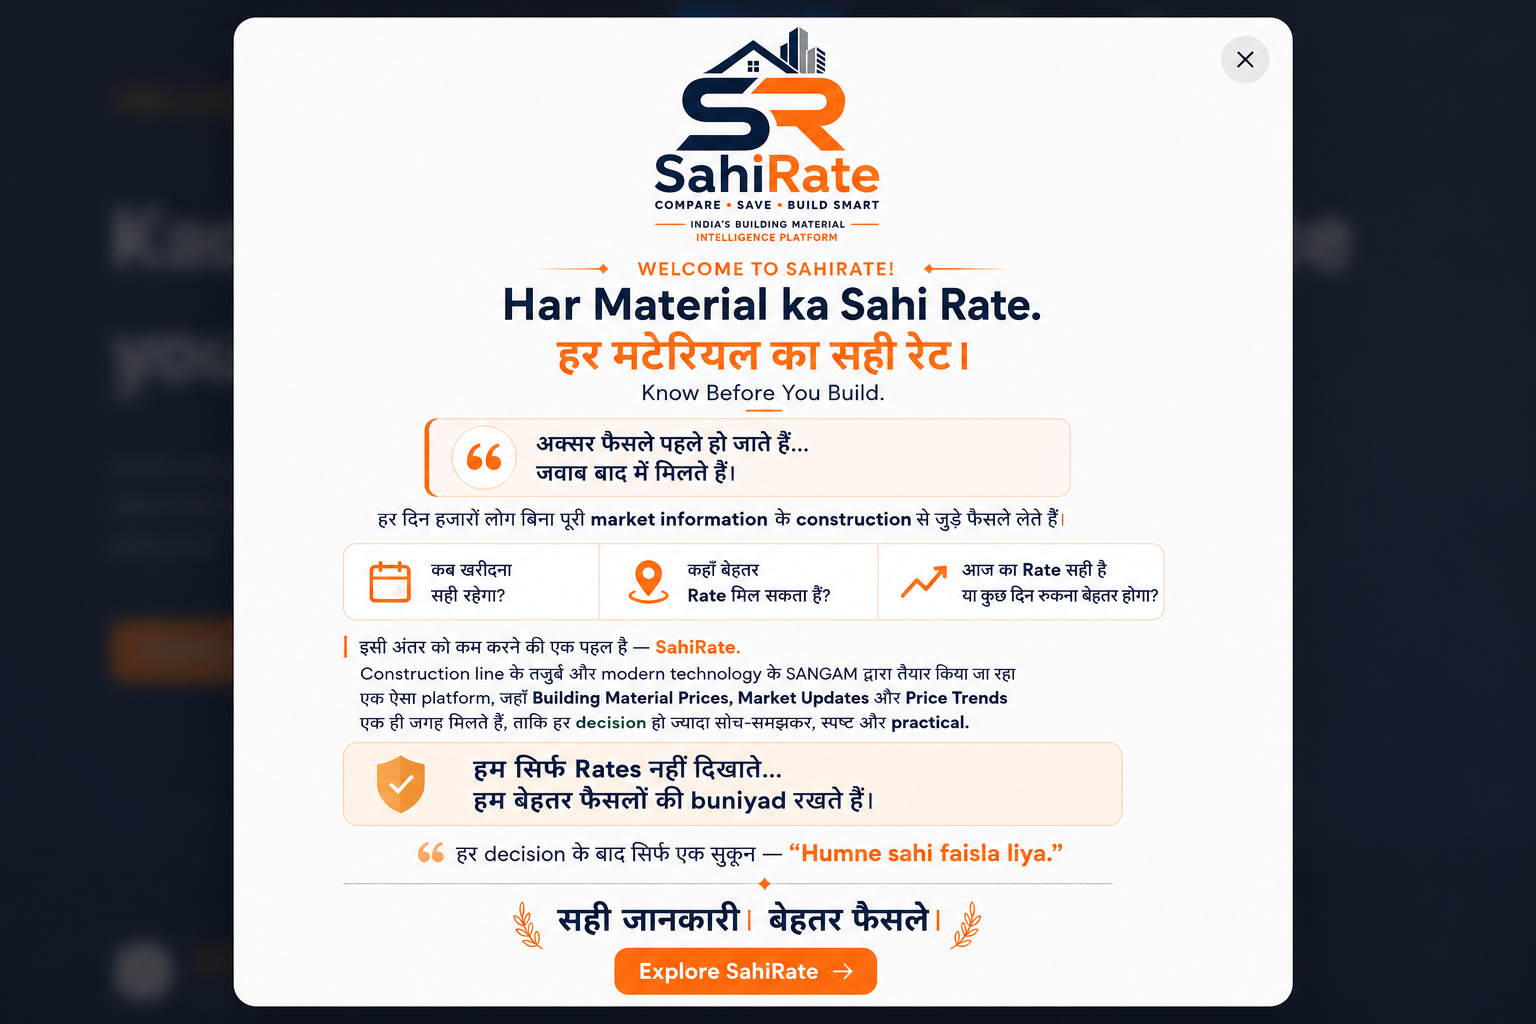
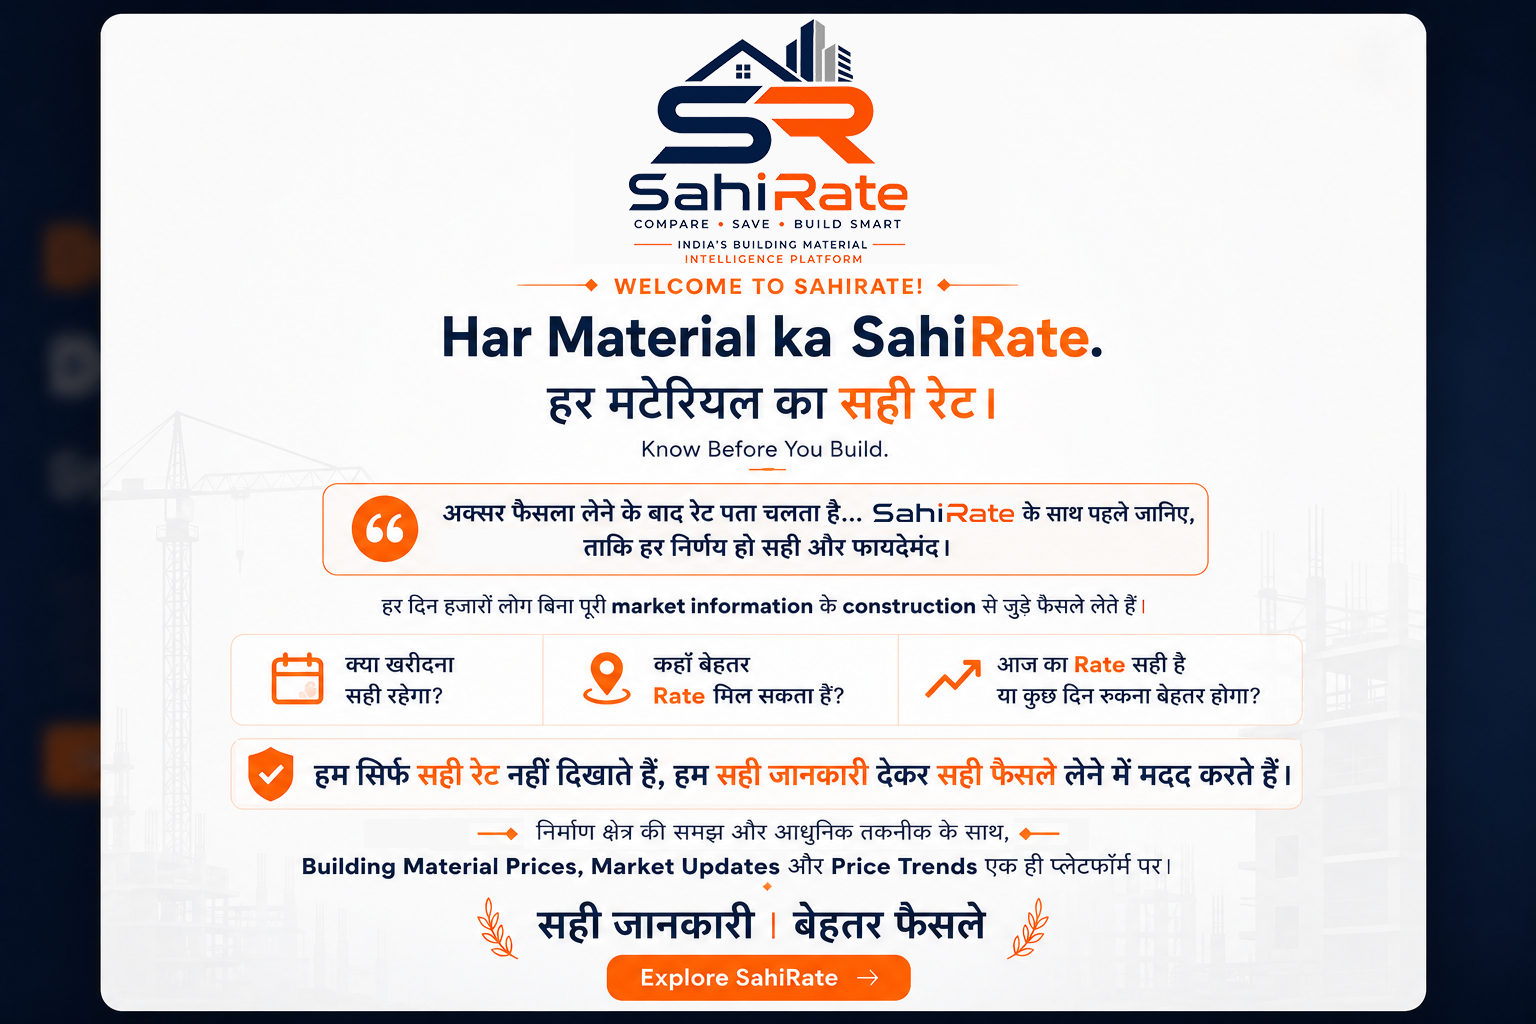
Release v0.5.0: Premium homepage UI, branding and welcome experience

diff --git a/frontend/src/pages/Home.jsx b/frontend/src/pages/Home.jsx
@@ -12,6 +12,7 @@ import {
 
 import SEO from "../components/SEO";
 import { fetchDailyPrices, fetchMaterials } from "@/lib/api";
+import SahiRateWordmark from "../assets/sahirate-wordmark.png";
 
 
 export default function Home({ onOpenSearch }) {
@@ -80,7 +81,7 @@ export default function Home({ onOpenSearch }) {
 
             <Sparkles className="w-4 h-4" />
 
-            🇮🇳 India's Building Material Intelligence Platform
+            🇮🇳 India's Trusted Building Material Intelligence Platform
 
           </div>
 
@@ -107,18 +108,26 @@ export default function Home({ onOpenSearch }) {
 
 
           <p className="mt-8 max-w-2xl text-lg leading-9 text-slate-300">
-
-            Compare live building material prices from verified dealers,
-            discover market trends, and make smarter construction decisions.
-
-            Starting from
-
-            <span className="text-white font-semibold">
-              {" "}Deoghar, Jharkhand
-            </span>.
-
-          </p>
-
+          <span className="font-semibold text-white">
+            Building Material kharidne se pehle
+          </span>{" "}
+          <span className="font-semibold text-[#FFB27A]">
+            uska Sahi Rate
+          </span>{" "}
+          janiye,{" "}
+          <span className="font-semibold text-[#FFB27A]">
+            verified dealers
+          </span>{" "}
+          ke rates compare kijiye aur{" "}
+          <span className="font-semibold text-[#FFB27A]">
+            smarter construction decisions
+          </span>{" "}
+          lijiye — trusted market data aur local insights ke saath.
+          <br />
+          <span className="mt-3 inline-block text-white font-medium">
+            <strong>Starting from Deoghar, Jharkhand.</strong> Expanding across India.
+          </span>
+        </p>
 
 
           <div className="mt-12 flex flex-wrap gap-4">
@@ -138,7 +147,7 @@ export default function Home({ onOpenSearch }) {
               className="flex items-center gap-2 rounded-xl border border-white/20 px-7 py-4 text-white hover:bg-white/10 transition"
             >
 
-              Compare Materials
+              📊 Explore Materials
 
               <ArrowRight size={18}/>
 
@@ -302,15 +311,15 @@ export default function Home({ onOpenSearch }) {
                   fontSize:"clamp(2rem,4vw,3.3rem)"
                 }}
               >
-                Compare Every Building Material
+                Compare Building Materials with Confidence
               </h2>
 
 
 
               <p className="mt-5 max-w-2xl text-slate-600 leading-8">
 
-                Daily updated prices from verified dealers.
-                Everything you need before starting construction.
+                Daily updated prices, verified dealers and market insights —
+                everything you need to make smarter construction decisions.
 
               </p>
 
@@ -325,7 +334,9 @@ export default function Home({ onOpenSearch }) {
               className="hidden lg:flex items-center gap-2 text-[#FF6B00] font-semibold"
             >
 
-              View All
+              Explore All Materials
+
+              <ArrowRight size={18}/>
 
               <ChevronRight size={18}/>
 
@@ -411,19 +422,16 @@ export default function Home({ onOpenSearch }) {
 
 
                     <span className="text-slate-500 mb-1">
-                      Avg Price
+                      Average Market Price
                     </span>
 
 
                   </div>
 
 
-
-
-
                   <div className="mt-5 inline-flex items-center gap-2 text-sm font-semibold text-[#FF6B00]">
 
-                    Compare Dealers
+                    View Price Details
 
                     <ArrowRight size={16}/>
 
@@ -479,6 +487,24 @@ export default function Home({ onOpenSearch }) {
               Construction decisions backed by data.
 
             </h2>
+
+            <h2 className="mx-auto max-w-4xl text-center leading-tight">
+
+            <span className="block text-4xl md:text-5xl font-bold text-white font-['Noto_Sans_Devanagari']">
+              बेहतर निर्माण की शुरुआत,
+            </span>
+
+            <img
+              src={SahiRateWordmark}
+              alt="SahiRate"
+              className="mx-auto mt-5 h-12 md:h-16 w-auto"
+            />
+
+            <span className="mt-2 block text-3xl md:text-4xl font-bold text-white font-['Noto_Sans_Devanagari']">
+              से।
+            </span>
+
+          </h2>
 
 
 
@@ -893,7 +919,7 @@ export default function Home({ onOpenSearch }) {
                   className="px-8 py-4 rounded-xl bg-[#FF6B00] hover:bg-[#eb5d00] text-white font-semibold transition shadow-xl"
                 >
 
-                  Ask AI
+                  ✨ Ask SahiAI
 
                 </button>
 

diff --git a/frontend/src/components/Navbar.jsx b/frontend/src/components/Navbar.jsx
@@ -25,7 +25,7 @@ export default function Navbar({ onOpenSearch }) {
       <div className="mx-auto flex h-[88px] max-w-7xl items-center justify-between px-6 lg:px-10">
 
         {/* Logo */}
-        <Link to="/" className="flex items-center gap-4">
+        <Link to="/" className="flex items-center gap-3">
           <img
             src="/logo.png"
             alt="SahiRate"
@@ -41,13 +41,13 @@ export default function Navbar({ onOpenSearch }) {
             </div>
 
             <div className="mt-1 max-w-[250px] text-[11px] leading-[1.25] uppercase tracking-[0.16em] text-slate-500">
-              India's Building Material Intelligence Platform
+              Har Material ka Sahi Rate
             </div>
           </div>
         </Link>
 
         {/* Desktop Navigation */}
-        <nav className="hidden flex-1 items-center justify-center gap-10 lg:flex">
+        <nav className="hidden flex-1 items-center justify-center gap-8 lg:flex">
           {NAV_ITEMS.map((item) => (
             <NavLink
               key={item.to}
@@ -78,7 +78,7 @@ export default function Navbar({ onOpenSearch }) {
 
           <button
             onClick={onOpenSearch}
-            className="hidden items-center gap-3 rounded-2xl border border-orange-200 bg-white px-6 py-2.5 shadow-sm transition-all duration-200 hover:bg-orange-50 hover:shadow-md lg:flex"
+            className="hidden items-center gap-3 rounded-2xl border border-orange-200 bg-white px-6 py-2.5 shadow-sm hover:-translate-y-0.5 hover:bg-orange-50 hover:shadow-md lg:flex"
           >
             <Sparkles
               size={22}
@@ -91,7 +91,7 @@ export default function Navbar({ onOpenSearch }) {
               </div>
 
               <div className="text-xs text-slate-500">
-                AI Assistant
+                Powered by AI
               </div>
             </div>
 
@@ -106,7 +106,7 @@ export default function Navbar({ onOpenSearch }) {
             className="lg:hidden"
             onClick={() => setMobileOpen(!mobileOpen)}
           >
-            {mobileOpen ? <X /> : <Menu />}
+            {mobileOpen ? <X /> : <Menu size={28} />}
           </button>
         </div>
       </div>

diff --git a/frontend/src/index.css b/frontend/src/index.css
@@ -1,4 +1,4 @@
-@import url("https://fonts.googleapis.com/css2?family=Inter:wght@300;400;500;600;700;800&family=Plus+Jakarta+Sans:wght@500;600;700;800&display=swap");
+@import url("https://fonts.googleapis.com/css2?family=Inter:wght@300;400;500;600;700;800&family=Plus+Jakarta+Sans:wght@500;600;700;800&family=Outfit:wght@700;800;900&family=Noto+Sans+Devanagari:wght@500;600;700;800&display=swap");
 
 @tailwind base;
 @tailwind components;
@@ -38,17 +38,14 @@ html {
 }
 
 body {
-
   background: var(--background);
-
   color: var(--text);
-
   font-family: "Inter", sans-serif;
-
+  line-height: 1.7;
+  font-size: 16px;
+  font-weight: 400;
   -webkit-font-smoothing: antialiased;
-
   text-rendering: optimizeLegibility;
-
   overflow-x: hidden;
 }
 
@@ -60,13 +57,16 @@ h3,
 h4,
 h5,
 h6 {
-
   font-family: "Plus Jakarta Sans", sans-serif;
-
   color: var(--primary);
-
   font-weight: 700;
+  line-height: 1.2;
+  letter-spacing: -0.02em;
+}
 
+p {
+  color: var(--text-light);
+  line-height: 1.8;
 }
 
 a {
@@ -83,6 +83,17 @@ img {
 
   max-width: 100%;
 
+}
+
+/* SahiRate Logo Font */
+.font-logo {
+  font-family: "Outfit", sans-serif;
+  font-weight: 900;
+  letter-spacing: -0.04em;
+}
+
+.font-hindi {
+  font-family: "Noto Sans Devanagari", sans-serif;
 }
 
 /* ---------- Layout ---------- */
@@ -202,3 +213,4 @@ img {
   }
 
 }
+

diff --git a/frontend/src/App.css b/frontend/src/App.css
@@ -1,14 +1,17 @@
 /* ---------- App ---------- */
 
-.App{
-  min-height:100vh;
-  background:#F8FAFC;
+.App {
+  min-height: 100vh;
+  background: #F8FAFC;
+  display: flex;
+  flex-direction: column;
 }
 
 /* ---------- Main ---------- */
 
-main{
-  min-height:calc(100vh - 160px);
+main {
+  flex: 1;
+  width: 100%;
 }
 
 /* ---------- Glass ---------- */
@@ -54,42 +57,30 @@ main{
 
 }
 
-.hero-subtitle{
-
-  font-size:1.15rem;
-
-  line-height:1.9;
-
-  color:#64748B;
-
-  max-width:720px;
-
+.hero-subtitle {
+  font-size: 1.15rem;
+  line-height: 1.85;
+  color: #64748B;
+  max-width: 720px;
+  margin-top: 20px;
 }
 
 /* ---------- Section ---------- */
 
-.section-title{
-
-  font-family:"Plus Jakarta Sans",sans-serif;
-
-  font-size:clamp(2rem,4vw,3rem);
-
-  color:#0A192F;
-
-  font-weight:800;
-
+.section-title {
+  font-family: "Plus Jakarta Sans", sans-serif;
+  font-size: clamp(2rem, 4vw, 3rem);
+  font-weight: 800;
+  line-height: 1.2;
+  letter-spacing: -0.02em;
+  color: #0A192F;
 }
 
-.section-subtitle{
-
-  margin-top:18px;
-
-  color:#64748B;
-
-  line-height:1.8;
-
-  max-width:760px;
-
+.section-subtitle {
+  margin-top: 20px;
+  color: #64748B;
+  line-height: 1.85;
+  max-width: 760px;
 }
 
 /* ---------- Cards ---------- */
